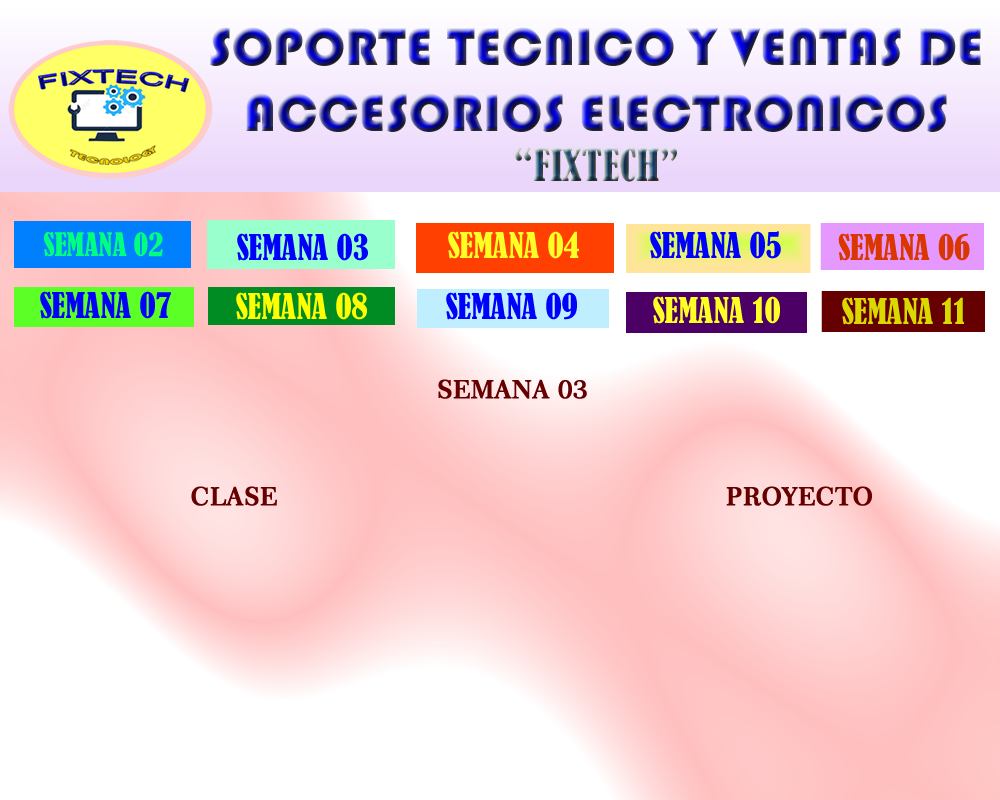
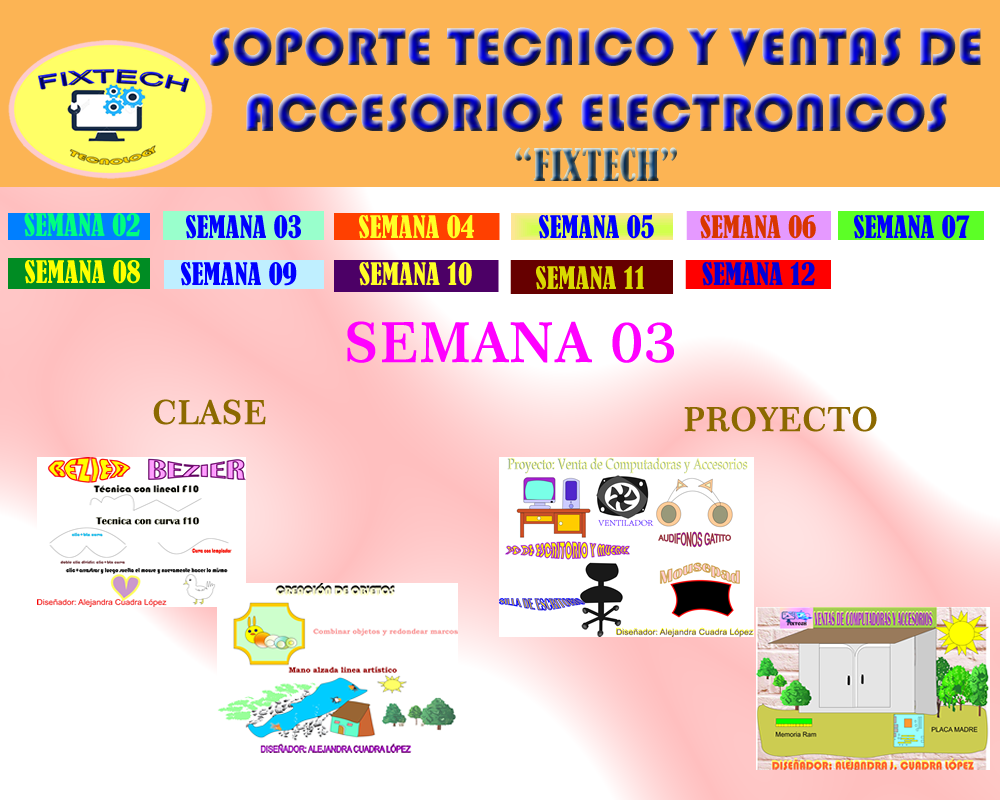
Add files via upload

diff --git a/index.html b/index.html
@@ -1,0 +1,25 @@
+<!DOCTYPE html PUBLIC "-//W3C//DTD XHTML 1.0 Transitional//EN"
+"http://www.w3.org/TR/xhtml1/DTD/xhtml1-transitional.dtd">
+<!-- saved from url=(0014)about:internet -->
+<html xmlns="http://www.w3.org/1999/xhtml">
+<head>
+<title>index</title>
+<meta http-equiv="Content-Type" content="text/html; charset=utf-8" />
+<!--Fireworks CS6 Dreamweaver CS6 target.  Created Mon Jun 30 09:35:21 GMT-0500 2025-->
+</head>
+<body bgcolor="#ffffff">
+<img name="index" src="index.png" width="1000" height="800" id="index" usemap="#m_index" alt="" /><map name="m_index" id="m_index">
+<area shape="rect" coords="686,260,830,292" href="s12.html" alt="" />
+<area shape="rect" coords="510,260,673,294" href="s11.html" alt="" />
+<area shape="rect" coords="334,260,499,294" href="s10.html" alt="" />
+<area shape="rect" coords="164,259,323,289" href="s09.html" alt="" />
+<area shape="rect" coords="8,258,150,289" href="s08.html" alt="" />
+<area shape="rect" coords="838,212,980,239" href="s07.html" alt="" />
+<area shape="rect" coords="686,210,830,240" href="s06.html" alt="" />
+<area shape="rect" coords="511,213,673,240" href="s05.html" alt="" />
+<area shape="rect" coords="334,213,499,240" href="s04.html" alt="" />
+<area shape="rect" coords="164,209,329,244" href="s03.html" alt="" />
+<area shape="rect" coords="8,213,150,240" href="s02.html" alt="" />
+</map>
+</body>
+</html>

diff --git a/s02.html b/s02.html
@@ -1,0 +1,25 @@
+<!DOCTYPE html PUBLIC "-//W3C//DTD XHTML 1.0 Transitional//EN"
+"http://www.w3.org/TR/xhtml1/DTD/xhtml1-transitional.dtd">
+<!-- saved from url=(0014)about:internet -->
+<html xmlns="http://www.w3.org/1999/xhtml">
+<head>
+<title>s02</title>
+<meta http-equiv="Content-Type" content="text/html; charset=utf-8" />
+<!--Fireworks CS6 Dreamweaver CS6 target.  Created Mon Jun 30 10:27:20 GMT-0500 2025-->
+</head>
+<body bgcolor="#ffffff">
+<img name="s02" src="s02.png" width="1000" height="800" id="s02" usemap="#m_s02" alt="" /><map name="m_s02" id="m_s02">
+<area shape="rect" coords="686,260,830,292" href="s12.html" alt="" />
+<area shape="rect" coords="510,260,673,294" href="s11.html" alt="" />
+<area shape="rect" coords="334,260,499,294" href="s10.html" alt="" />
+<area shape="rect" coords="164,259,323,289" href="s09.html" alt="" />
+<area shape="rect" coords="8,258,150,289" href="s08.html" alt="" />
+<area shape="rect" coords="838,212,980,239" href="s07.html" alt="" />
+<area shape="rect" coords="686,210,830,240" href="s06.html" alt="" />
+<area shape="rect" coords="511,213,673,240" href="s05.html" alt="" />
+<area shape="rect" coords="334,213,499,240" href="s04.html" alt="" />
+<area shape="rect" coords="164,209,329,244" href="s03.html" alt="" />
+<area shape="rect" coords="8,213,150,240" href="s02.html" alt="" />
+</map>
+</body>
+</html>

diff --git a/s03.html b/s03.html
@@ -1,0 +1,25 @@
+<!DOCTYPE html PUBLIC "-//W3C//DTD XHTML 1.0 Transitional//EN"
+"http://www.w3.org/TR/xhtml1/DTD/xhtml1-transitional.dtd">
+<!-- saved from url=(0014)about:internet -->
+<html xmlns="http://www.w3.org/1999/xhtml">
+<head>
+<title>s03</title>
+<meta http-equiv="Content-Type" content="text/html; charset=utf-8" />
+<!--Fireworks CS6 Dreamweaver CS6 target.  Created Mon Jun 30 10:22:35 GMT-0500 2025-->
+</head>
+<body bgcolor="#ffffff">
+<img name="s03" src="s03.png" width="1000" height="800" id="s03" usemap="#m_s03" alt="" /><map name="m_s03" id="m_s03">
+<area shape="rect" coords="686,260,830,292" href="s12.html" alt="" />
+<area shape="rect" coords="510,260,673,294" href="s11.html" alt="" />
+<area shape="rect" coords="334,260,499,294" href="s10.html" alt="" />
+<area shape="rect" coords="164,259,323,289" href="s09.html" alt="" />
+<area shape="rect" coords="8,258,150,289" href="s08.html" alt="" />
+<area shape="rect" coords="838,212,980,239" href="s07.html" alt="" />
+<area shape="rect" coords="686,210,830,240" href="s06.html" alt="" />
+<area shape="rect" coords="511,213,673,240" href="s05.html" alt="" />
+<area shape="rect" coords="334,213,499,240" href="s04.html" alt="" />
+<area shape="rect" coords="163,205,328,240" href="s03.html" alt="" />
+<area shape="rect" coords="8,212,150,240" href="s02" alt="" />
+</map>
+</body>
+</html>

diff --git a/s04.html b/s04.html
@@ -1,0 +1,25 @@
+<!DOCTYPE html PUBLIC "-//W3C//DTD XHTML 1.0 Transitional//EN"
+"http://www.w3.org/TR/xhtml1/DTD/xhtml1-transitional.dtd">
+<!-- saved from url=(0014)about:internet -->
+<html xmlns="http://www.w3.org/1999/xhtml">
+<head>
+<title>s04</title>
+<meta http-equiv="Content-Type" content="text/html; charset=utf-8" />
+<!--Fireworks CS6 Dreamweaver CS6 target.  Created Mon Jun 30 10:19:40 GMT-0500 2025-->
+</head>
+<body bgcolor="#ffffff">
+<img name="s04" src="s04.png" width="1000" height="800" id="s04" usemap="#m_s04" alt="" /><map name="m_s04" id="m_s04">
+<area shape="rect" coords="686,260,830,292" href="s12.html" alt="" />
+<area shape="rect" coords="510,260,673,294" href="s11.html" alt="" />
+<area shape="rect" coords="334,260,499,294" href="s10.html" alt="" />
+<area shape="rect" coords="164,259,323,289" href="s09.html" alt="" />
+<area shape="rect" coords="8,258,150,289" href="s08.html" alt="" />
+<area shape="rect" coords="838,212,980,239" href="s07.html" alt="" />
+<area shape="rect" coords="686,210,830,240" href="s06.html" alt="" />
+<area shape="rect" coords="511,213,673,240" href="s05.html" alt="" />
+<area shape="rect" coords="334,213,499,240" href="s04.html" alt="" />
+<area shape="rect" coords="163,205,328,240" href="s03.html" alt="" />
+<area shape="rect" coords="8,212,150,240" href="s02" alt="" />
+</map>
+</body>
+</html>

diff --git a/s05.html b/s05.html
@@ -1,0 +1,25 @@
+<!DOCTYPE html PUBLIC "-//W3C//DTD XHTML 1.0 Transitional//EN"
+"http://www.w3.org/TR/xhtml1/DTD/xhtml1-transitional.dtd">
+<!-- saved from url=(0014)about:internet -->
+<html xmlns="http://www.w3.org/1999/xhtml">
+<head>
+<title>s05</title>
+<meta http-equiv="Content-Type" content="text/html; charset=utf-8" />
+<!--Fireworks CS6 Dreamweaver CS6 target.  Created Mon Jun 30 10:12:11 GMT-0500 2025-->
+</head>
+<body bgcolor="#ffffff">
+<img name="s05" src="s05.png" width="1000" height="800" id="s05" usemap="#m_s05" alt="" /><map name="m_s05" id="m_s05">
+<area shape="rect" coords="686,260,830,292" href="s12.html" alt="" />
+<area shape="rect" coords="510,260,673,294" href="s11.html" alt="" />
+<area shape="rect" coords="334,260,499,294" href="s10.html" alt="" />
+<area shape="rect" coords="164,259,323,289" href="s09.html" alt="" />
+<area shape="rect" coords="8,258,150,289" href="s08.html" alt="" />
+<area shape="rect" coords="838,212,980,239" href="s07.html" alt="" />
+<area shape="rect" coords="686,210,830,240" href="s06.html" alt="" />
+<area shape="rect" coords="511,213,673,240" href="s05.html" alt="" />
+<area shape="rect" coords="334,213,499,240" href="s04.html" alt="" />
+<area shape="rect" coords="163,205,328,240" href="s03.html" alt="" />
+<area shape="rect" coords="8,212,150,240" href="s02" alt="" />
+</map>
+</body>
+</html>

diff --git a/s06.html b/s06.html
@@ -1,0 +1,25 @@
+<!DOCTYPE html PUBLIC "-//W3C//DTD XHTML 1.0 Transitional//EN"
+"http://www.w3.org/TR/xhtml1/DTD/xhtml1-transitional.dtd">
+<!-- saved from url=(0014)about:internet -->
+<html xmlns="http://www.w3.org/1999/xhtml">
+<head>
+<title>s06</title>
+<meta http-equiv="Content-Type" content="text/html; charset=utf-8" />
+<!--Fireworks CS6 Dreamweaver CS6 target.  Created Mon Jun 30 10:08:26 GMT-0500 2025-->
+</head>
+<body bgcolor="#ffffff">
+<img name="s06" src="s06.png" width="1000" height="800" id="s06" usemap="#m_s06" alt="" /><map name="m_s06" id="m_s06">
+<area shape="rect" coords="686,260,830,292" href="s12.html" alt="" />
+<area shape="rect" coords="510,260,673,294" href="s11.html" alt="" />
+<area shape="rect" coords="334,260,499,294" href="s10.html" alt="" />
+<area shape="rect" coords="164,259,323,289" href="s09.html" alt="" />
+<area shape="rect" coords="8,258,150,289" href="s08.html" alt="" />
+<area shape="rect" coords="838,212,980,239" href="s07.html" alt="" />
+<area shape="rect" coords="686,210,830,240" href="s06.html" alt="" />
+<area shape="rect" coords="511,213,673,240" href="s05.html" alt="" />
+<area shape="rect" coords="334,213,499,240" href="s04.html" alt="" />
+<area shape="rect" coords="163,205,328,240" href="s03.html" alt="" />
+<area shape="rect" coords="8,212,150,240" href="s02" alt="" />
+</map>
+</body>
+</html>

diff --git a/s07.html b/s07.html
@@ -1,0 +1,25 @@
+<!DOCTYPE html PUBLIC "-//W3C//DTD XHTML 1.0 Transitional//EN"
+"http://www.w3.org/TR/xhtml1/DTD/xhtml1-transitional.dtd">
+<!-- saved from url=(0014)about:internet -->
+<html xmlns="http://www.w3.org/1999/xhtml">
+<head>
+<title>s07</title>
+<meta http-equiv="Content-Type" content="text/html; charset=utf-8" />
+<!--Fireworks CS6 Dreamweaver CS6 target.  Created Mon Jun 30 10:03:34 GMT-0500 2025-->
+</head>
+<body bgcolor="#ffffff">
+<img name="s07" src="s07.png" width="1000" height="800" id="s07" usemap="#m_s07" alt="" /><map name="m_s07" id="m_s07">
+<area shape="rect" coords="686,260,830,292" href="s12.html" alt="" />
+<area shape="rect" coords="510,260,673,294" href="s11.html" alt="" />
+<area shape="rect" coords="334,260,499,294" href="s10.html" alt="" />
+<area shape="rect" coords="164,259,323,289" href="s09.html" alt="" />
+<area shape="rect" coords="8,258,150,289" href="s08.html" alt="" />
+<area shape="rect" coords="838,212,980,239" href="s07.html" alt="" />
+<area shape="rect" coords="686,210,830,240" href="s06.html" alt="" />
+<area shape="rect" coords="511,213,673,240" href="s05.html" alt="" />
+<area shape="rect" coords="334,213,499,240" href="s04.html" alt="" />
+<area shape="rect" coords="163,205,328,240" href="s03.html" alt="" />
+<area shape="rect" coords="8,212,150,240" href="s02" alt="" />
+</map>
+</body>
+</html>

diff --git a/s08.html b/s08.html
@@ -1,0 +1,25 @@
+<!DOCTYPE html PUBLIC "-//W3C//DTD XHTML 1.0 Transitional//EN"
+"http://www.w3.org/TR/xhtml1/DTD/xhtml1-transitional.dtd">
+<!-- saved from url=(0014)about:internet -->
+<html xmlns="http://www.w3.org/1999/xhtml">
+<head>
+<title>s08</title>
+<meta http-equiv="Content-Type" content="text/html; charset=utf-8" />
+<!--Fireworks CS6 Dreamweaver CS6 target.  Created Mon Jun 30 10:02:02 GMT-0500 2025-->
+</head>
+<body bgcolor="#ffffff">
+<img name="s08" src="s08.png" width="1000" height="800" id="s08" usemap="#m_s08" alt="" /><map name="m_s08" id="m_s08">
+<area shape="rect" coords="686,260,830,292" href="s12.html" alt="" />
+<area shape="rect" coords="510,260,673,294" href="s11.html" alt="" />
+<area shape="rect" coords="334,260,499,294" href="s10.html" alt="" />
+<area shape="rect" coords="164,259,323,289" href="s09.html" alt="" />
+<area shape="rect" coords="8,258,150,289" href="s08.html" alt="" />
+<area shape="rect" coords="838,212,980,239" href="s07.html" alt="" />
+<area shape="rect" coords="686,210,830,240" href="s06.html" alt="" />
+<area shape="rect" coords="511,213,673,240" href="s05.html" alt="" />
+<area shape="rect" coords="334,213,499,240" href="s04.html" alt="" />
+<area shape="rect" coords="163,205,328,240" href="s03.html" alt="" />
+<area shape="rect" coords="8,212,150,240" href="s02" alt="" />
+</map>
+</body>
+</html>

diff --git a/s10.html b/s10.html
@@ -1,0 +1,25 @@
+<!DOCTYPE html PUBLIC "-//W3C//DTD XHTML 1.0 Transitional//EN"
+"http://www.w3.org/TR/xhtml1/DTD/xhtml1-transitional.dtd">
+<!-- saved from url=(0014)about:internet -->
+<html xmlns="http://www.w3.org/1999/xhtml">
+<head>
+<title>s10</title>
+<meta http-equiv="Content-Type" content="text/html; charset=utf-8" />
+<!--Fireworks CS6 Dreamweaver CS6 target.  Created Mon Jun 30 09:55:44 GMT-0500 2025-->
+</head>
+<body bgcolor="#ffffff">
+<img name="s10" src="s10.png" width="1000" height="800" id="s10" usemap="#m_s10" alt="" /><map name="m_s10" id="m_s10">
+<area shape="rect" coords="686,260,830,292" href="s12.html" alt="" />
+<area shape="rect" coords="510,260,673,294" href="s11.html" alt="" />
+<area shape="rect" coords="334,260,499,294" href="s10.html" alt="" />
+<area shape="rect" coords="164,259,323,289" href="s09.html" alt="" />
+<area shape="rect" coords="8,258,150,289" href="s08.html" alt="" />
+<area shape="rect" coords="838,212,980,239" href="s07.html" alt="" />
+<area shape="rect" coords="686,210,830,240" href="s06.html" alt="" />
+<area shape="rect" coords="511,213,673,240" href="s05.html" alt="" />
+<area shape="rect" coords="334,213,499,240" href="s04.html" alt="" />
+<area shape="rect" coords="163,205,328,240" href="s03.html" alt="" />
+<area shape="rect" coords="8,212,150,240" href="s02" alt="" />
+</map>
+</body>
+</html>

diff --git a/s09.html b/s09.html
@@ -1,0 +1,25 @@
+<!DOCTYPE html PUBLIC "-//W3C//DTD XHTML 1.0 Transitional//EN"
+"http://www.w3.org/TR/xhtml1/DTD/xhtml1-transitional.dtd">
+<!-- saved from url=(0014)about:internet -->
+<html xmlns="http://www.w3.org/1999/xhtml">
+<head>
+<title>s09</title>
+<meta http-equiv="Content-Type" content="text/html; charset=utf-8" />
+<!--Fireworks CS6 Dreamweaver CS6 target.  Created Mon Jun 30 10:00:52 GMT-0500 2025-->
+</head>
+<body bgcolor="#ffffff">
+<img name="s09" src="s09.png" width="1000" height="800" id="s09" usemap="#m_s09" alt="" /><map name="m_s09" id="m_s09">
+<area shape="rect" coords="686,263,833,296" href="s12.html" alt="" />
+<area shape="rect" coords="510,260,673,294" href="s11.html" alt="" />
+<area shape="rect" coords="334,260,499,294" href="s10.html" alt="" />
+<area shape="rect" coords="164,259,323,289" href="s09.html" alt="" />
+<area shape="rect" coords="8,258,150,289" href="s08.html" alt="" />
+<area shape="rect" coords="838,212,980,239" href="s07.html" alt="" />
+<area shape="rect" coords="687,210,831,240" href="s06" alt="" />
+<area shape="rect" coords="511,213,673,239" href="s05" alt="" />
+<area shape="rect" coords="335,208,501,243" href="s04" alt="" />
+<area shape="rect" coords="162,209,324,239" href="s03" alt="" />
+<area shape="rect" coords="8,213,150,239" href="s02" alt="" />
+</map>
+</body>
+</html>

diff --git a/s11.html b/s11.html
@@ -1,0 +1,25 @@
+<!DOCTYPE html PUBLIC "-//W3C//DTD XHTML 1.0 Transitional//EN"
+"http://www.w3.org/TR/xhtml1/DTD/xhtml1-transitional.dtd">
+<!-- saved from url=(0014)about:internet -->
+<html xmlns="http://www.w3.org/1999/xhtml">
+<head>
+<title>s11</title>
+<meta http-equiv="Content-Type" content="text/html; charset=utf-8" />
+<!--Fireworks CS6 Dreamweaver CS6 target.  Created Mon Jun 30 09:53:37 GMT-0500 2025-->
+</head>
+<body bgcolor="#ffffff">
+<img name="s11" src="s11.png" width="1000" height="800" id="s11" usemap="#m_s11" alt="" /><map name="m_s11" id="m_s11">
+<area shape="rect" coords="686,260,830,292" href="s12.html" alt="" />
+<area shape="rect" coords="510,260,673,294" href="s11.html" alt="" />
+<area shape="rect" coords="334,260,499,294" href="s10.html" alt="" />
+<area shape="rect" coords="164,259,323,289" href="s09.html" alt="" />
+<area shape="rect" coords="8,258,150,289" href="s08.html" alt="" />
+<area shape="rect" coords="838,212,980,239" href="s07.html" alt="" />
+<area shape="rect" coords="687,209,832,244" href="s06" alt="" />
+<area shape="rect" coords="510,214,673,239" href="s05" alt="" />
+<area shape="rect" coords="334,212,500,239" href="s04" alt="" />
+<area shape="rect" coords="164,210,329,244" href="s03" alt="" />
+<area shape="rect" coords="8,212,150,239" href="s02" alt="" />
+</map>
+</body>
+</html>

diff --git a/s12.html b/s12.html
@@ -1,0 +1,25 @@
+<!DOCTYPE html PUBLIC "-//W3C//DTD XHTML 1.0 Transitional//EN"
+"http://www.w3.org/TR/xhtml1/DTD/xhtml1-transitional.dtd">
+<!-- saved from url=(0014)about:internet -->
+<html xmlns="http://www.w3.org/1999/xhtml">
+<head>
+<title>s12</title>
+<meta http-equiv="Content-Type" content="text/html; charset=utf-8" />
+<!--Fireworks CS6 Dreamweaver CS6 target.  Created Mon Jun 30 09:54:27 GMT-0500 2025-->
+</head>
+<body bgcolor="#ffffff">
+<img name="s12" src="s12.png" width="1000" height="800" id="s12" usemap="#m_s12" alt="" /><map name="m_s12" id="m_s12">
+<area shape="rect" coords="686,263,833,296" href="s12.html" alt="" />
+<area shape="rect" coords="510,260,673,294" href="s11.html" alt="" />
+<area shape="rect" coords="334,260,499,294" href="s10.html" alt="" />
+<area shape="rect" coords="164,259,323,289" href="s09.html" alt="" />
+<area shape="rect" coords="8,258,150,289" href="s08.html" alt="" />
+<area shape="rect" coords="838,212,980,239" href="s07.html" alt="" />
+<area shape="rect" coords="687,210,831,240" href="s06" alt="" />
+<area shape="rect" coords="511,213,673,239" href="s05" alt="" />
+<area shape="rect" coords="335,208,501,243" href="s04" alt="" />
+<area shape="rect" coords="162,209,324,239" href="s03" alt="" />
+<area shape="rect" coords="8,213,150,239" href="s02" alt="" />
+</map>
+</body>
+</html>
